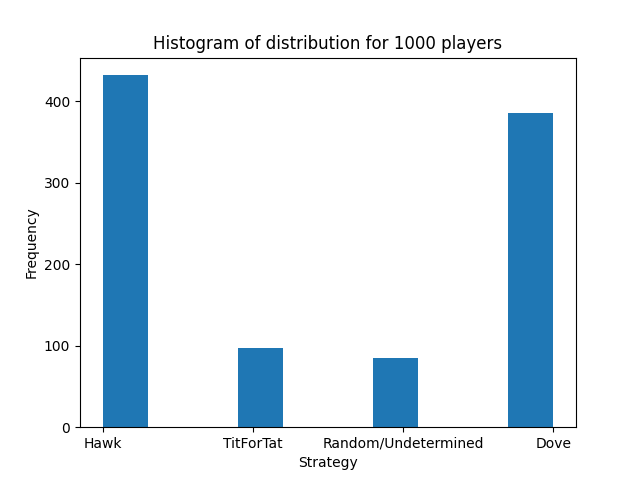
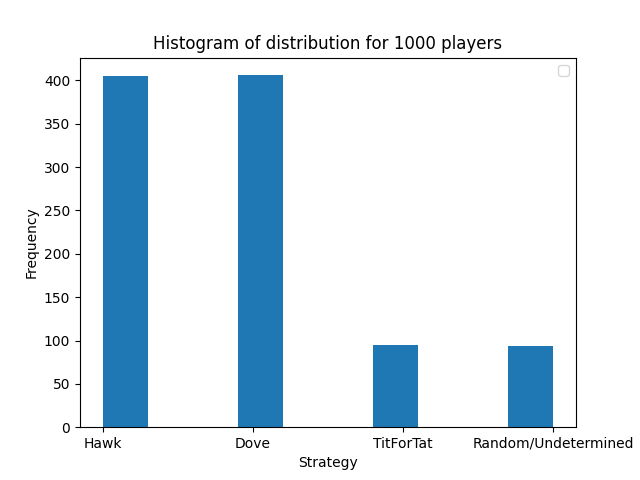
percentages

diff --git a/src/parameter_space.py b/src/parameter_space.py
@@ -1,5 +1,5 @@
 import numpy as np
-
+from collections import Counter
 from player import Player
 from strategy_detector import detect_strategy
 from constants import STRATS
@@ -31,10 +31,12 @@ def print_weights(player, weights=True, bias=True):
 
 verdicts = []
 save = True
+verbose = True
 players = 1000
 for i in range(players):
-	print("-" * 20)
-	print(f"Player {i}")
+	if verbose:
+		print("-" * 20)
+		print(f"Player {i}")
 	player = Player(identifier=0, n_matchups=10, n_games=10, memory_capacity=1, use_cuda=False)
 	# reset_player(player, bias_reset=True)
 	# augment weights here ###
@@ -48,9 +50,21 @@ for i in range(players):
 	print_weights(player, weights=True, bias=True)
 	verdict = detect_strategy(player=player, verbose=False)
 	verdicts.append(STRATS[verdict])
-	print("-" * 20)
+	if verbose:
+		print("-" * 20)
 
-print(verdicts)
+if verbose:
+	print(verdicts)
+c = Counter(verdicts)
+
+percentages = {}
+for key, value in c.items():
+	percentage = value/players
+	percentages[key] = percentage
+
+if verbose:
+	print(percentages)
+
 plt.hist(verdicts)
 plt.title(f"Histogram of distribution for {players} players")
 plt.xlabel("Strategy")
